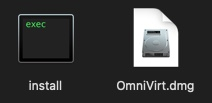
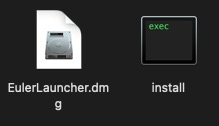
Fix old images
Fix old omnivirt images

diff --git a/README.md b/README.md
@@ -2,7 +2,7 @@
 
 ----
 
-# EulerLauncher（曾用名OmniVirt）
+# EulerLauncher
 
 **EulerLauncer**是由openEuler社区技术运营团队及基础设施团队孵化的开发者工具集，通过对主流桌面操作系统中的虚拟化技术(LXD、HyperV、Virtualization framework)等技术进行有机整合，使用openEuler社区官方发布的虚拟机、容器镜像，为开发者在Windows、MacOS、Linux上提供统一的开发资源(虚拟机、容器)发放和管理体验，提升主流桌面操作系统上openEuler开发环境使用的便利性和稳定性，有效提升开发者体验。
 
